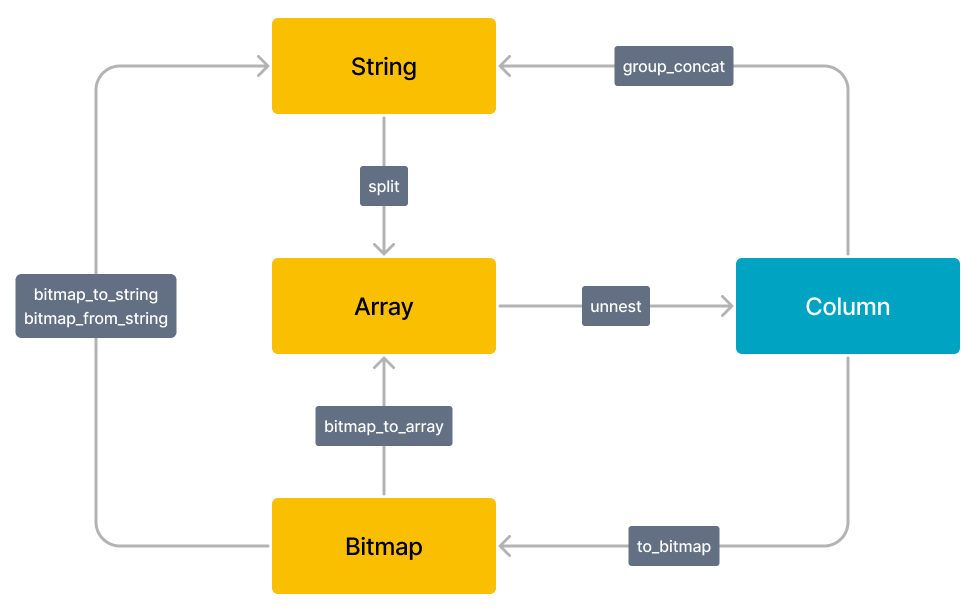
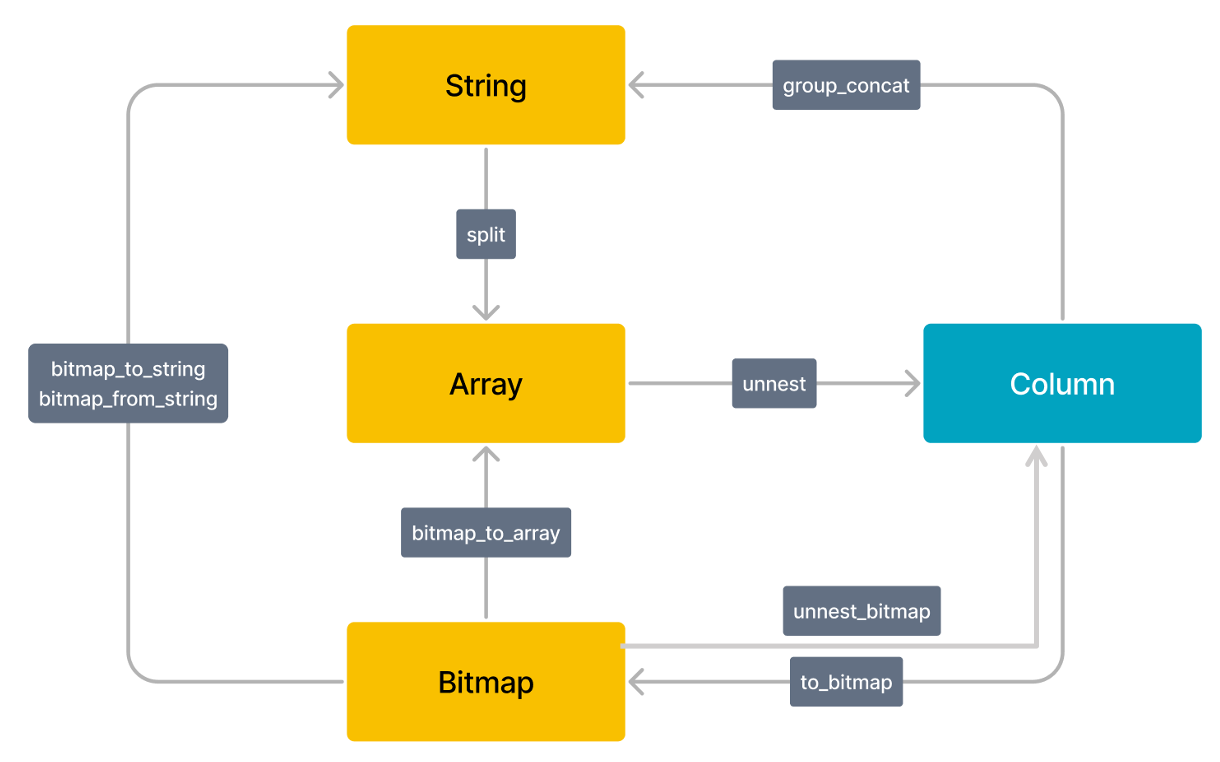
[Doc] Use unnest_bitmap to replace unnest(bitmap_to_array(xxx)) (#45365)

diff --git a/docs/zh/using_starrocks/Lateral_join.md b/docs/zh/using_starrocks/Lateral_join.md
@@ -170,7 +170,7 @@ StarRocks 支持的 BITMAP、STRING、ARRAY、Column 之间的类型转化关系
 
 ### 展开 Bitmap 类型数据
 
-您可以使用 Lateral Join 功能配合 Unnest 功能展开 Bitmap 类型数据。
+您可以使用 Lateral Join 功能配合 unnest_bitmap 函数展开 Bitmap 类型数据。
 
 示例：
 
@@ -222,14 +222,14 @@ StarRocks 支持的 BITMAP、STRING、ARRAY、Column 之间的类型转化关系
 5. 展开 Bitmap 类型数据。
 
     ~~~Plain Text
-    mysql> select v1, unnest from lateral_test3, unnest(bitmap_to_array(v2)) as unnest;
+    mysql> select v1, unnest_bitmap from lateral_test3, unnest_bitmap(v2) as unnest_bitmap;
 
-    +------+--------+
-    | v1   | unnest |
-    +------+--------+
-    |    1 |      1 |
-    |    1 |      2 |
-    |    1 |      3 |
-    |    2 |      3 |
-    +------+--------+
+    +------+---------------+
+    | v1   | unnest_bitmap |
+    +------+---------------+
+    |    1 |             1 |
+    |    1 |             2 |
+    |    1 |             3 |
+    |    2 |             3 |
+    +------+---------------+
     ~~~

diff --git a/docs/en/using_starrocks/Lateral_join.md b/docs/en/using_starrocks/Lateral_join.md
@@ -166,6 +166,8 @@ Together with unnest(), you can achieve the following column-to-row conversion f
 
 ### Expand Bitmap data
 
+You can use Lateral Join with the unnest_bitmap function to expand Bitmap data.
+
 1. Create a table and insert data into this table.
 
     ~~~SQL
@@ -209,14 +211,14 @@ Together with unnest(), you can achieve the following column-to-row conversion f
 4. Expand data in `v2` into multiple rows.
 
     ~~~Plain Text
-    select v1,unnest from lateral_test3, unnest(bitmap_to_array(v2)) as unnest;
+    mysql> select v1, unnest_bitmap from lateral_test3, unnest_bitmap(v2) as unnest_bitmap;
 
-    +------+--------+
-    | v1   | unnest |
-    +------+--------+
-    |    1 |      1 |
-    |    1 |      2 |
-    |    1 |      3 |
-    |    2 |      3 |
-    +------+--------+
+    +------+---------------+
+    | v1   | unnest_bitmap |
+    +------+---------------+
+    |    1 |             1 |
+    |    1 |             2 |
+    |    1 |             3 |
+    |    2 |             3 |
+    +------+---------------+
     ~~~
